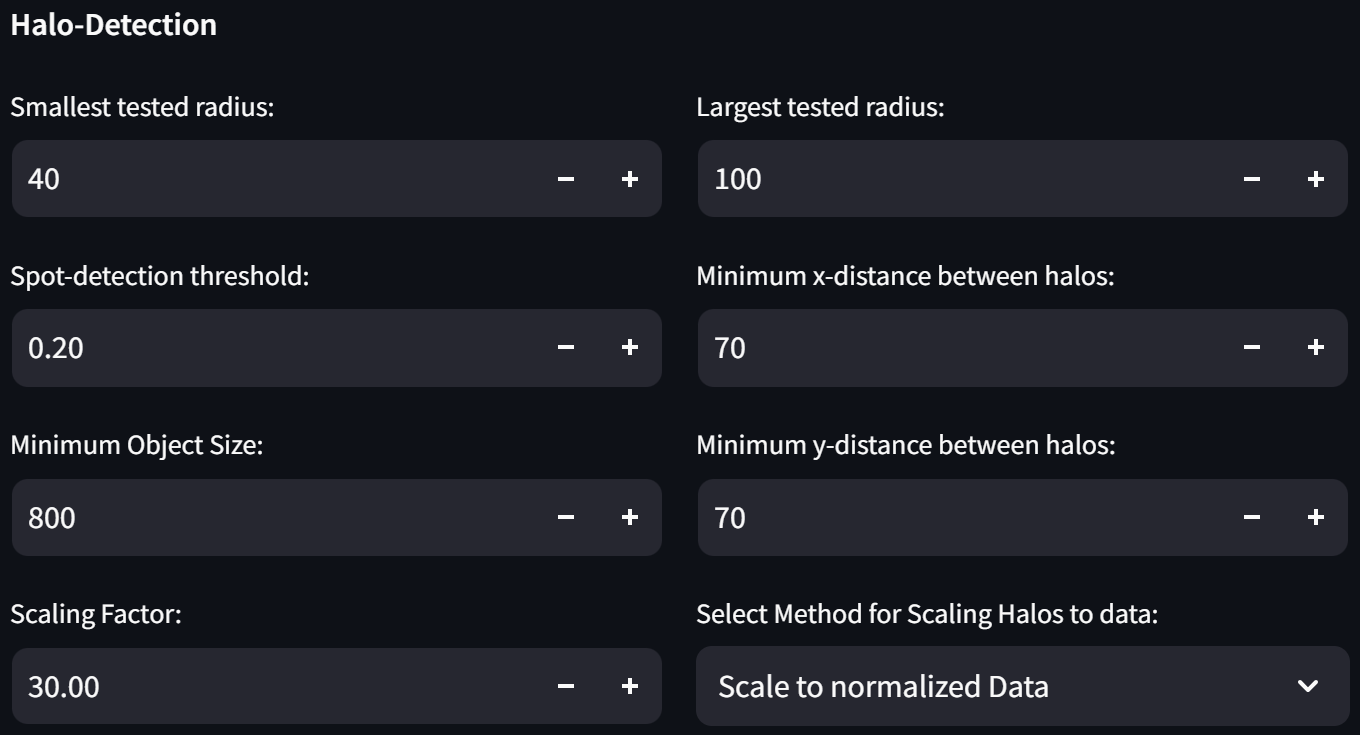
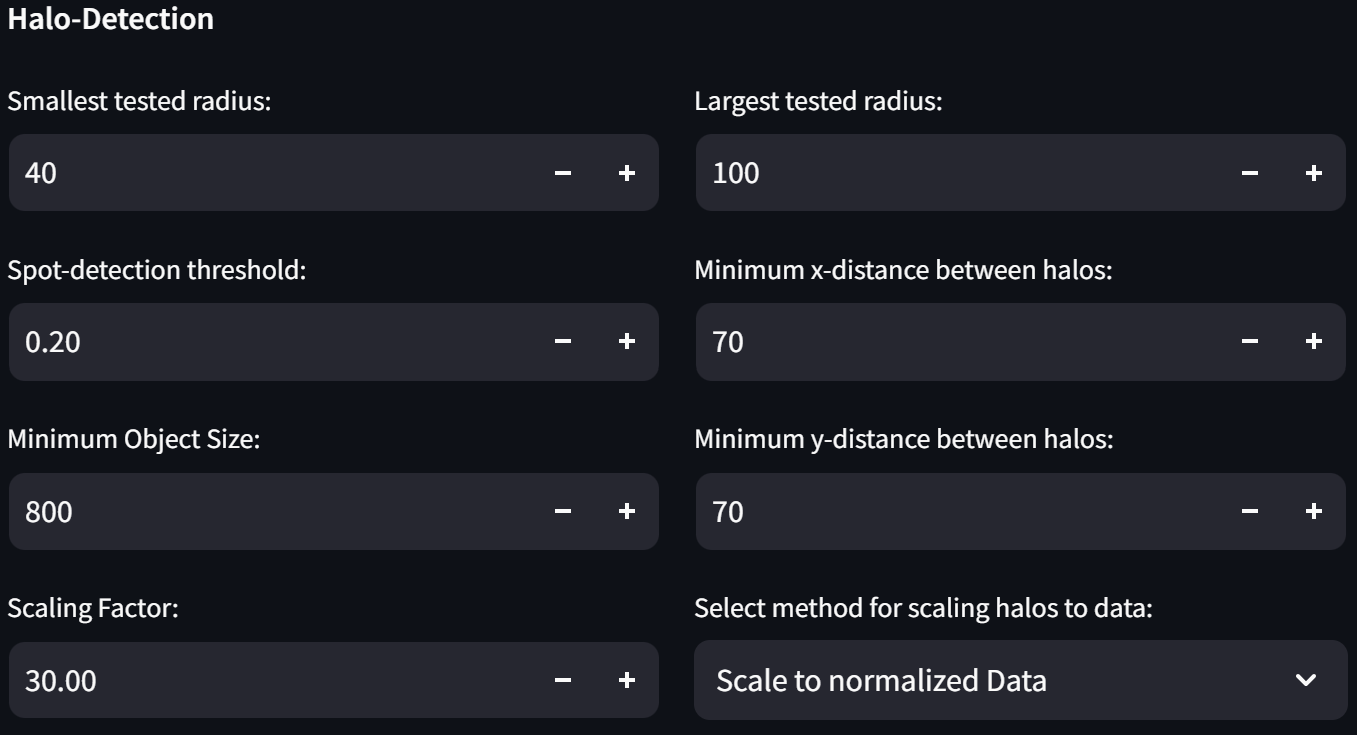
section on the sidebar and rationale for merging

diff --git a/pages/1_Image_Analysis.py b/pages/1_Image_Analysis.py
@@ -164,7 +164,7 @@ if st.session_state["analyze"]==False:
                 st.session_state["adv_settings"]["halo_det"]["x_dist"]=st.number_input("Minimum x-distance between halos:",value=70,step=1,min_value=0,disabled=not st.session_state["halo_toggle"])
                 st.session_state["adv_settings"]["halo_det"]["y_dist"]=st.number_input("Minimum y-distance between halos:",value=70,step=1,min_value=0,disabled=not st.session_state["halo_toggle"])
                 # st.session_state["adv_settings"]["halo_det"]["thresh"]=st.number_input("Spot-detection threshold:",value=0.38546213,min_value=0.0,disabled=not st.session_state["halo_toggle"])
-                st.session_state["adv_settings"]["halo_det"]["tog_scale"]=st.selectbox("Select Method for Scaling Halos to data:",mst.scale_list)
+                st.session_state["adv_settings"]["halo_det"]["tog_scale"]=st.selectbox("Select method for scaling halos to data:",mst.scale_list)
 
         with col1:
             # Start the image processing algorithm. Only activated if all settings have been set

diff --git a/userguide_app.md b/userguide_app.md
@@ -4,6 +4,10 @@
 
 This document is directed at new users of the Web App implementation of the MicrospotReader Workflow. It will guide you through the individual steps required for annotation of LC-MS data with concomitantly determined bioactivity-values.
 
+## The microPAD
+
+WIP
+
 ## Purpose
 
 WIP
@@ -131,6 +135,16 @@ The fourth tab of the _Results-View_ shows the image overlayed with the detected
 
 A faulty grid leads to mistakes during spot-correction. Spot-correction relies on the grid to remove spots that lie too far from intersecting grid-lines. Additionally, intersections that do not yet have a detected spot in close proximity, will be used to backfill missing spots. Therefore if the grid is either missing or contains too many lines, either too many or too few spots will be left after spot-correction.
 
+#### Storing and managing Data in a Session
+
+After results of image analysis have been produced, the data table can be stored in the current session. This is done by naming the image data and then pressing the ___Add Image-Data to Session___ Button. The data will then show up in the ___Image-Data___ table just below.
+
+<img src="assets/userguide/sidebar.png" alt="drawing" width="200"/>
+
+Data stored in the session will be available until the web app is closed or until you decide to delete it yourself. This is done by selecting a dataset and pressing the ___Delete Selection___ button at the bottom of the sidebar. Once deleted data cannot be restored.
+
+For steps following image analysis, stored data can be used. To do this check the checkbock under "Select" in the respective table and click the ___Apply Changes___ button at the bottom of the sidebar. Additionally, datasets can be renamed by double-clicking on the current name of the dataset, giving it a new name and then pressing the ___Apply Changes___ button. In case you forget to press the button whenever a change has been made but not yet applied, a warning message will be displayed.
+
 ### Advanced Settings
 
 #### Initial spot detection
@@ -197,5 +211,13 @@ The presence of an antimicrobial halo around a spot implies enough activity of t
 The values that the halo-radii should be scaled to can be selected. It is recommended to scale to the normalized data. If however scaling to the raw spot-intensities or no scaling at all is desired, it can be selected accordingly.
 
 ## Data Merging and Manipulation
+
+### Rationale
+
+The dimensions of a microPAD are 210 x 297 mm. Since no set-up sufficiently large for capturing images of these dimensions was available, the microPAD was split into multiple smaller pieces. This results in multiple images being taken for a single experiment. Therefore, after performing image analysis, the obtained data-tables have to be merged to be able to construct a chromatogram based on the signal obtained during the assay. Merging the data as well as constructing a chromatogramm from the data is done in this step. 
+
+### Layout and Workflow
+
+
 
 ## Annotation of .mzML-Files
